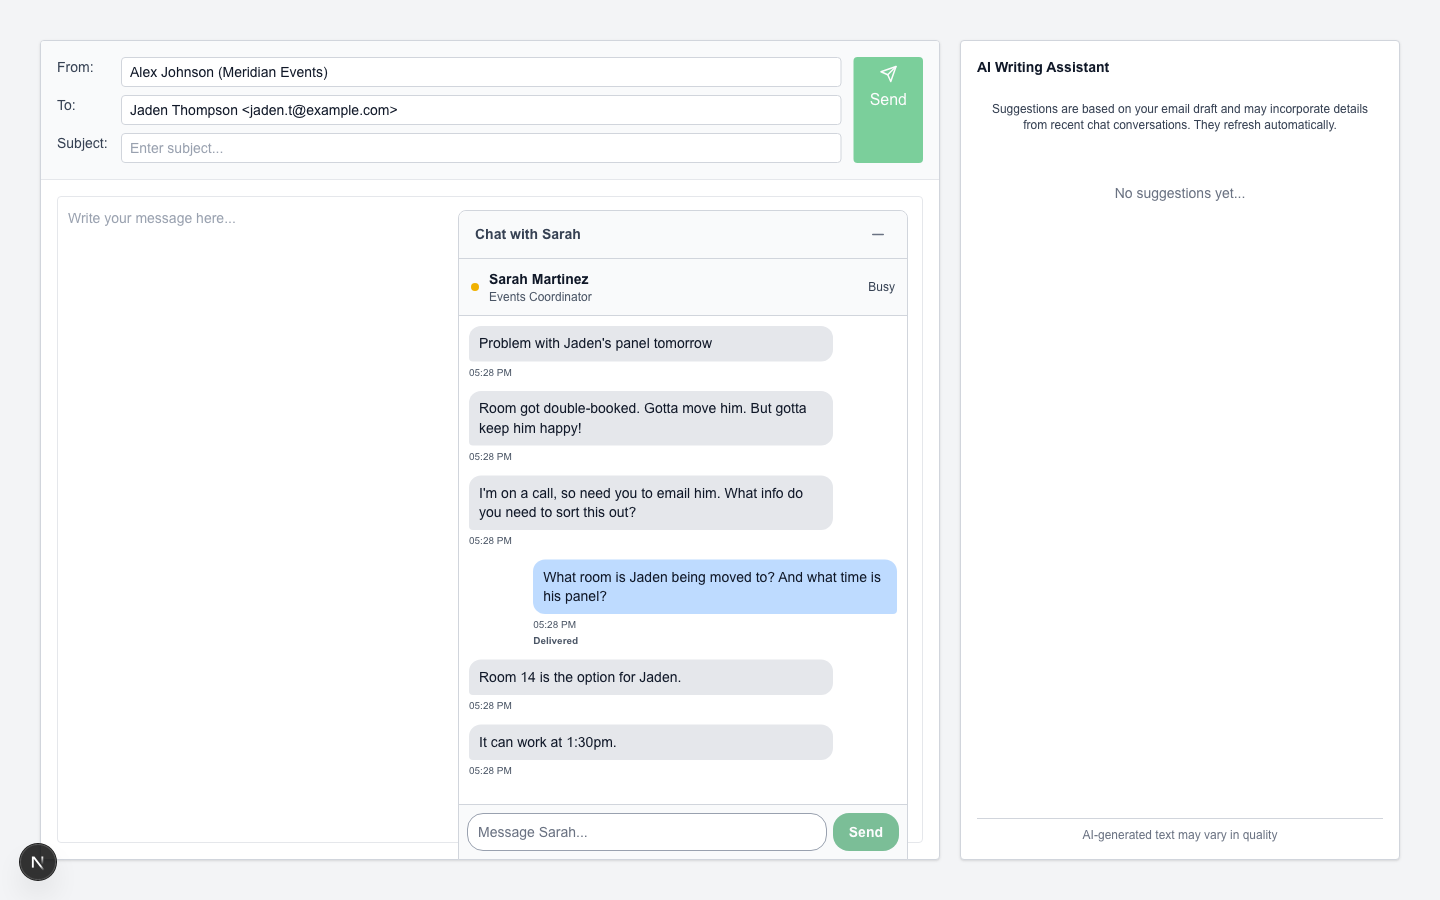
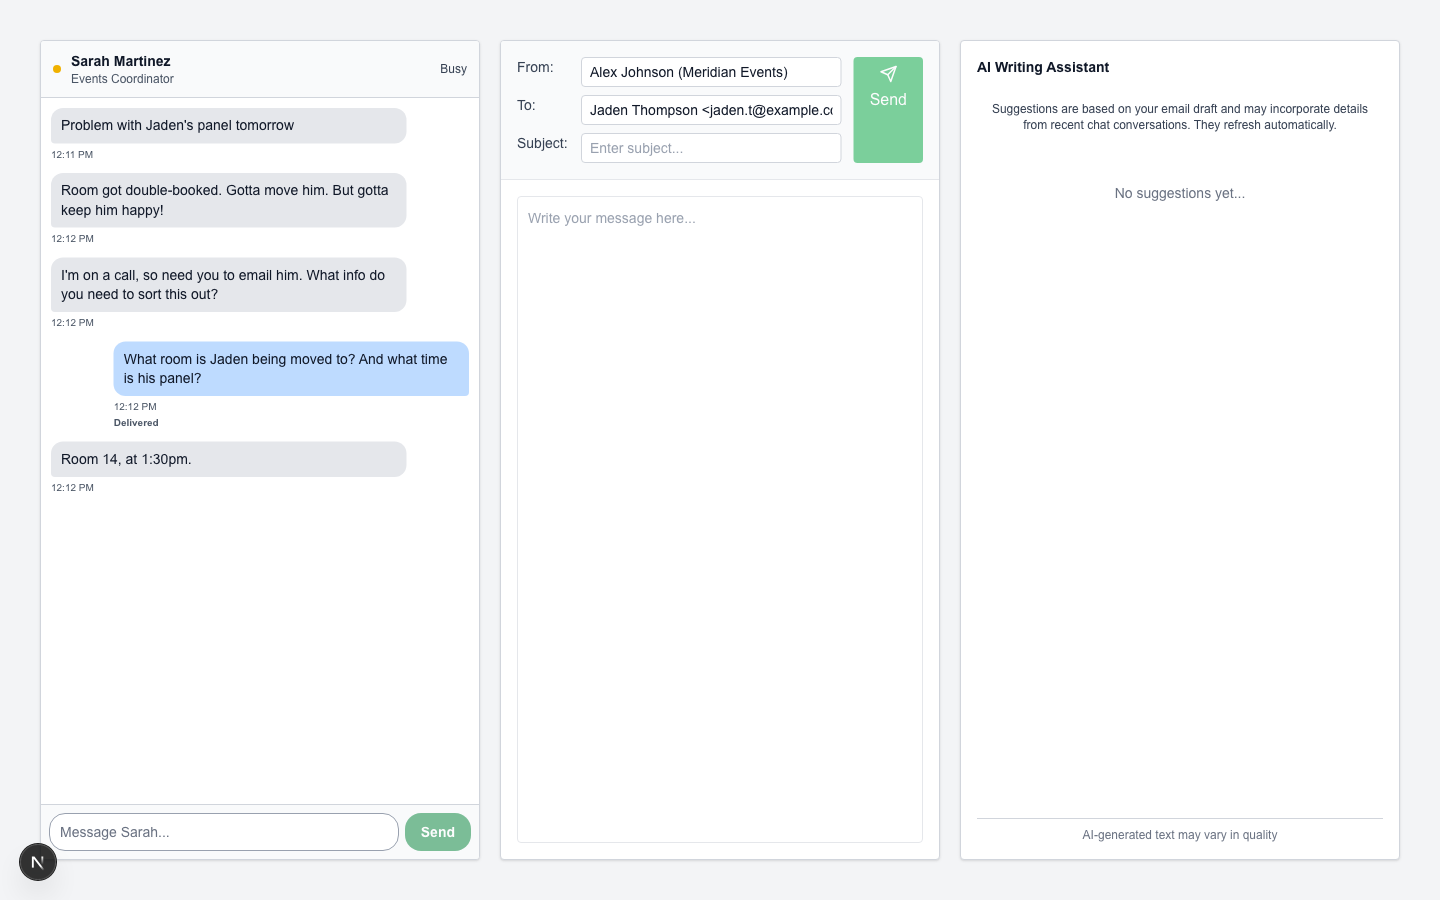
Regenerate walkthrough

diff --git a/experiment/walkthroughs/walkthrough-proposal.md b/experiment/walkthroughs/walkthrough-proposal.md
@@ -1,7 +1,7 @@
 # Experiment Walkthrough: Proposal Advice (p) Condition
 
-*2026-10-23T22:26:43Z by Showboat 0.6.1*
-<!-- showboat-id: d26760a8-43e0-4b46-9fcf-ae4b94a01754 -->
+*2026-10-27T17:11:32Z by Showboat 0.6.1*
+<!-- showboat-id: f61e8078-9714-4517-a5a9-6688ca7308e7 -->
 
 This walkthrough demonstrates the complete participant experience in the **proposal_advice (p)** condition of the writing experiment, using the **roomDoubleBooking** scenario. In this condition, participants receive directive AI advice (not copy-paste text) while composing an email.
 
@@ -304,9 +304,9 @@ http://localhost:3000/study?username=walkthrough-user&condition=p&scenario=roomD
 
 ## Step 5: Main Writing Task
 
-This is the core of the experiment. The screen has three areas:
-- **Left**: Email composition area (To, Subject, Body fields)
-- **Bottom-right**: Floating chat panel with simulated colleague Sarah Martinez
+This is the core of the experiment. The screen has three columns:
+- **Left sidebar**: Chat with simulated colleague Sarah Martinez
+- **Center**: Email composition area (To, Subject, Body fields)
 - **Right sidebar**: AI Writing Assistant panel showing directive advice
 
 The colleague's initial messages appear automatically with typing animations.
@@ -344,11 +344,11 @@ The colleague (Sarah Martinez) sends her initial messages automatically:
 2. "Room got double-booked. Gotta move him. But gotta keep him happy!"
 3. "I'm on a call, so need you to email him. What info do you need to sort this out?"
 
-The chat panel is a floating window at the bottom-right. The colleague is intentionally non-proactive — she only answers questions when asked, simulating a busy coworker.
+The chat is always visible in the left sidebar. The colleague is intentionally non-proactive — she only answers questions when asked, simulating a busy coworker.
 
 ### Chatting with the Colleague
 
-The participant asks Sarah questions to gather information needed for the email. Sarah is intentionally non-proactive — she only answers what's asked, simulating a busy coworker.
+The participant asks Sarah questions to gather information needed for the email. She replies only to what's asked.
 
 ```bash
 rodney input 'input[placeholder="Message Sarah..."]' "What room is Jaden being moved to? And what time is his panel?" && rodney click 'form button[type="submit"]' && echo "Message sent"
@@ -380,18 +380,16 @@ rodney js "document.querySelector('.flex-1.overflow-y-auto.bg-white').innerText"
 
 ```output
 Problem with Jaden's panel tomorrow
-05:28 PM
+12:11 PM
 Room got double-booked. Gotta move him. But gotta keep him happy!
-05:28 PM
+12:12 PM
 I'm on a call, so need you to email him. What info do you need to sort this out?
-05:28 PM
+12:12 PM
 What room is Jaden being moved to? And what time is his panel?
-05:28 PM
+12:12 PM
 Delivered
-Room 14 is the option for Jaden.
-05:28 PM
-It can work at 1:30pm.
-05:28 PM
+Room 14, at 1:30pm.
+12:12 PM
 ```
 
 ### Composing the Email
@@ -476,13 +474,13 @@ rodney js "document.querySelector('h3').parentElement.innerText"
 ```output
 AI Writing Assistant
 Suggestions are based on your email draft and may incorporate details from recent chat conversations. They refresh automatically.
-05:28 PM
+12:12 PM
 Advice for your next words:
-- State the new room and time again in a clear, scannable closing line before the sign-off.
+- Add the venue location details for Room 14 and include a clear arrival time for setup.
 
-- Add one sentence acknowledging his needs and offering a quick way to confirm any AV or setup requirements.
+- Briefly explain what will remain unchanged about his panel to reassure him despite the move.
 
-- Include a brief next-step action for him, specifying when you need a reply to finalize the room change.
+- End with a direct next-step for him to confirm receipt and a specific contact method for urgent issues.
 Delete
 AI-generated text may vary in quality
 ```
